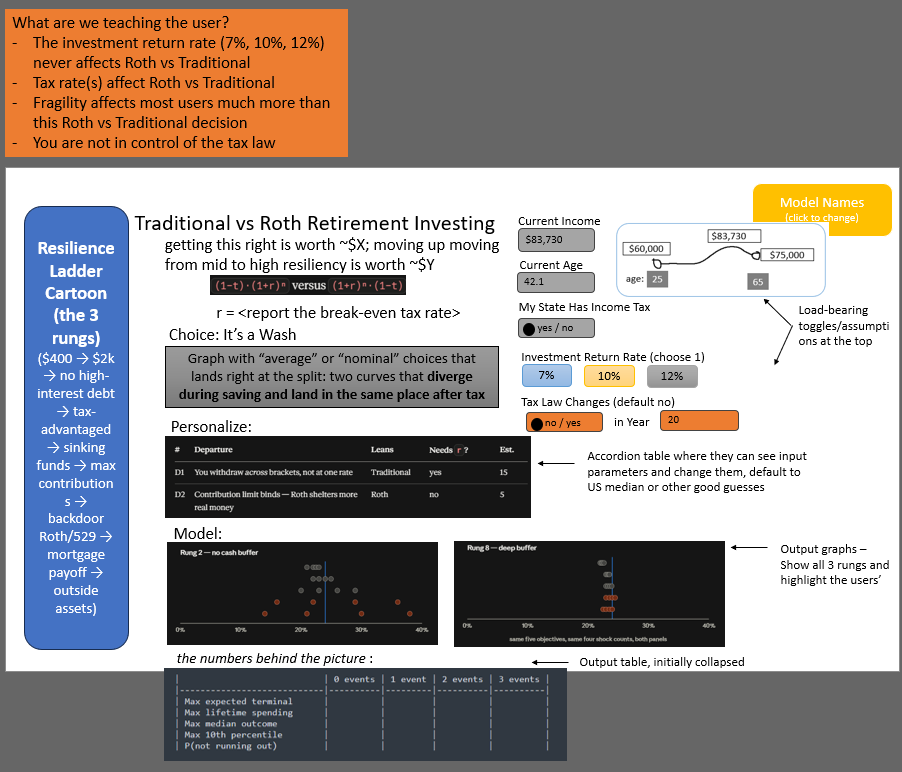
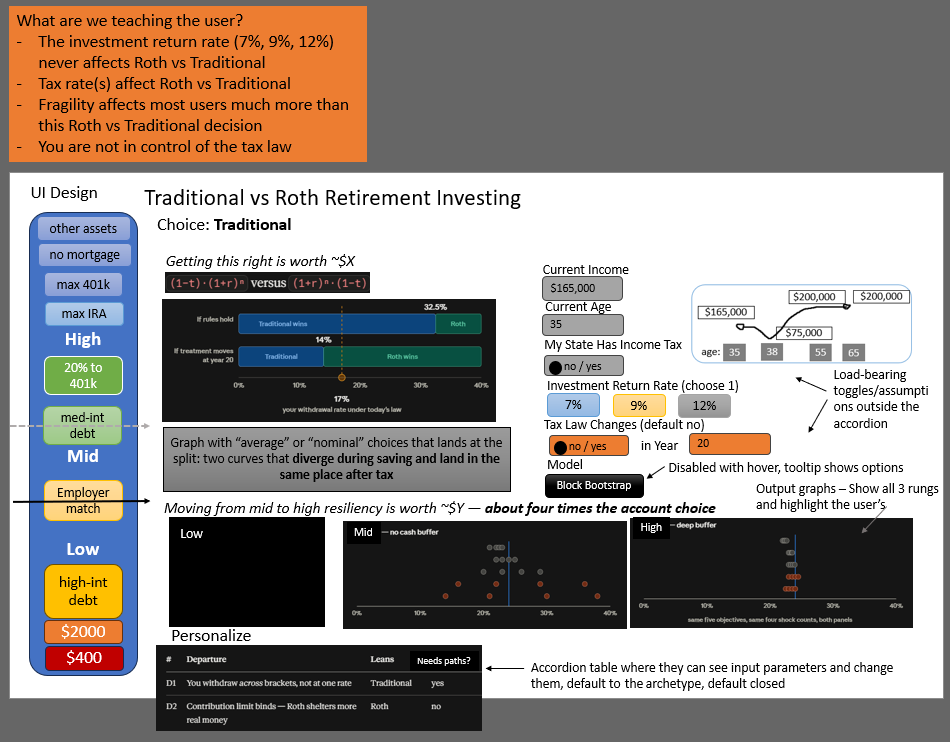
design review gate 1

diff --git a/docs/DECISIONS.md b/docs/DECISIONS.md
@@ -10,14 +10,27 @@ option tables now carry two marker sets: `← initial pick` for the choice made
 during synthesis, `← design-phase pick` for what survived design. Where a row
 carries both, the choice held.
 
-Two conflicts remain that markers can't express, plus two in `DESIGN.md`:
+`README.md` is a working surface, not a source. It carries notes taken while
+thinking and is reconciled against this file at each design gate — so between
+gates it may disagree, and this file wins by default. Disagreements found in the
+README are treated as unreconciled notes rather than conflicts, **except** where
+the README states a number or a claim the panel will read, in which case the
+disagreement is a defect and gets fixed in the same pass. Both files are stale
+until a gate closes; this one is stale by omission, the README by draft.
+
+Three conflicts remain that markers can't express, plus two in `DESIGN.md`:
 
 | Says | Superseded by |
 |---|---|
-| CONTEXT §B — PoC is "deliberately throwaway" | D-11. The PoC *is* the engine the app imports |
+| CONTEXT part B — PoC is "deliberately throwaway" | D-11. The PoC *is* the engine the app imports |
+| CONTEXT part B — "Cost in the budget" includes research and design | Section 8. Both are declared outside the implementation budget |
 | CONTEXT §G3 — model the employer match | D8 disposition. Grayed, `TODO` |
 | DESIGN.md — grid columns are a "shock count" | D-08. Columns are shock count; *timing* is correlated with drawdown |
 | DESIGN.md — rung slider, 8–10 stops, feeding shock severity | D-16. Three rungs, and the rung selects a *mechanism*, not a severity |
+| DESIGN.md — tail visual "Pick 3, with 2 as the visual under it" | Cut. The exchange-rate sentence survives as the $X/$Y sentence; the two-bar asymmetry chart is a Scope & Branches row |
+| DESIGN.md — "Recommended output stack ≈ 75 min" | Section 8. Predates the cube, the rung mechanisms, and the ladder graphic |
+
+Design deck — working surface, reconciled at gates. DECISIONS.md wins.
 
 ---
 
@@ -72,10 +85,10 @@ model, RMDs, Social Security taxation, real per-state tax data.
 | D-04 | **Return rate is a three-way choice: 7 / 10 / 12%, real.** Default 7% | These are the exact numbers people argue about. Clicking all three while the answer holds still *is* L1 |
 | D-05 | **Return path model: block bootstrap over a historical return series. Block length 5 years.** Shocks placed into each path's worst years by drawdown `argsort` | Bad years must arrive in *runs* or the forced-liquidation argument is mechanical only — you sell at the bottom and next year is fine. IID and lognormal both scatter them. Block length is stated, and its sensitivity at 3 and 10 goes in Scope & Branches: a measured fudge factor beats an unexamined distribution. `argsort` placement means no correlation coefficient to calibrate or defend |
 | D-06 | **`optimal` is a parameter, not a choice.** All five objectives ship as grid rows | Same inputs, swap the objective, watch the recommendation flip. This is the demo |
-| D-07 | **Common random numbers.** Draw the `(n_paths, n_years)` array once; reuse across every cell, both choices, every bisection step | The quantity of interest is a small difference between two large numbers. Pairing removes sampling noise from that difference, makes the cube reproducible from a seed, and makes 160 cells cheap |
+| D-07 | **Common random numbers.** Draw the `(n_paths, n_years)` array once; reuse across every cell, both choices, every bisection step | The quantity of interest is a small difference between two large numbers. Pairing removes sampling noise from that difference, makes the cube reproducible from a seed, and makes 60 cells cheap |
 | D-08 | **Shock columns are a count (0–3); shock *timing* is correlated with drawdown.** Correlated is the default; an uncorrelated toggle exists for contrast | Forced liquidation lands when prices are worst. The toggle makes the fat tail appear and disappear in one click |
 | D-09 | **Policy scenario is "nevermind," prospective.** After year N (default 20), withdrawals are ordinary income regardless of account type — applied to growth after year N, not retroactively to existing balance | Simpler than a haircut: no rate parameter. Prospective is what actually tends to happen when rules move |
-| D-10 | **"Nevermind" is labeled as what Roth is betting, not as a neutral scenario** | It is one-sided — Traditional already banked its deduction. Honest framing. README carries one line noting a bracket rise cuts the other way |
+| D-10 | **Both thresholds display, always. The headline holds two numbers: `t*` under current rules and `t*` with the "nevermind" policy applied.** Labeled: *Roth bets the treatment holds. Traditional bets the rates do. Neither is the neutral choice — pick which rule you'd rather be exposed to* | The toggle as originally specified showed only Roth's exposure, while the offsetting case — brackets rise, Roth wins — sat in a README branch nobody at a demo will read. That asymmetry is what makes a one-sided toggle read as a strawman. The correction costs nothing to model, because the bracket-rise case is *already on the axis*: a higher future rate is a position to the right of `t*`, and the user is being asked to locate themselves there regardless. Showing both thresholds applies the CONTEXT part C option-4 stance twice instead of once. Cost: one extra `breakeven()` call. Layout unchanged except the headline carries two numbers |
 
 ### Architecture
 
@@ -110,6 +123,54 @@ Rungs are **named in the UI, never numbered.** The ladder figure in the left rai
 keeps all ten stops and marks which three are modeled: the figure is the
 argument, the three are the model.
 
+### GAPS SURFACED IN DESIGN REVIEW, CLOSED HERE
+
+| D-17 | **Dollar fields are evaluated at `t* + δ`, δ = 10 percentage points**, not at the break-even. Emit `roth_dollars` / `trad_dollars` at δ ∈ {2, 10}; the app uses 10 and the README reports both. Null for non-crossing cells | At `t*` the two outcomes are equal by construction, so `$X` would be zero. δ is the assumed size of the miss, and it sets `$X` outright while leaving `$Y` nearly untouched — so it must be chosen *against* the L3 claim rather than for it. Ten points is about a bracket and a half, the generous case. The wash band was rejected as the anchor precisely because it minimizes `$X`. Sensitivity at 2 and 10 goes in Scope & Branches; δ is named in the app's sentence, not hidden |
+
+| D-23 | **The $X / $Y sentence reads objective 4 (max 10th percentile) at 1 shock.** Rung comes from the user's control; $Y compares that rung to the next one up, same objective and shock count. **The README reports the pair at all five objectives.** The sentence names its objective in-line | Zero shocks makes $Y identically zero — the rung selects a shock branch, and with no shock all three branches run the same code. Expected value is the wrong gauge for fragility: a halving and a doubling cancel in the mean, and ruin is absorbing, so the ensemble average is not what any one household lives. Objective 4 is where fragility is visible and it keeps both magnitudes in dollars, which is the only reason the sentence works at all. It is also the choice that flatters L3 most — it shrinks $X and grows $Y — so the full five-objective spread is published rather than the single quoted pair. Objectives 2 and 5 need the spending model and cannot serve here |
+
+| D-27 | **Everything is in real 2026 dollars. Brackets are treated as inflation-indexed**, so the 2026 table applies at every year of the run | Returns are declared real (D-04) while the bracket table is nominal 2026. Running both unstated models a world where brackets never index — bracket creep would push the future rate up on its own and `t*` would be an artifact of the mismatch. Real throughout is internally consistent and matches the law. **R5's return series must be real or deflated on load.** The 7/10/12 buttons are labeled as the figures people quote, since 12% real is not a claim |
+
+| D-19 | **Reference archetype:** age 35, retires 65, dies 100, filing single, no-income-tax state (D4 default), income $165,000 real, savings rate 20%, replacement rate 80%. Income shape has one start, one trough, one peak, one end | Filing single because the UI models one income curve and one age — an MFJ archetype is a household the controls cannot represent. $165k is what a Staff SWE recognizes; the panel will reset income to their own the way part E predicts they will reset the state toggle. Consequences: `t_now` = 24% with no bracket straddle, and savings capacity ($33,000) just clears the cost of maxing a Roth ($32,237), so D2 and T3 are live at the archetype rather than hypothetical |
+
+| D-20 | **Horizon runs to age 100; `n_years = 100 − current_age`.** Two phases: accumulate to 65, decumulate 65→100. All objectives evaluate at 100 | Planning past median longevity is the standard convention, because outliving the money is the failure that matters. Retirement at 65 was already implicit in the income shape's right endpoint. Splitting the phases is what puts `t*` where it belongs — in the withdrawal years. "Terminal wealth" therefore means bequest at 100, not balance at 65, so all five objectives share one horizon. Guard needed for `current_age >= 65` |
+
+| D-21 | **`tax.py` implements SINGLE only: 2026 bracket edges, seven rates, standard deduction $16,100.** MFJ and HoH are `TODO` stubs with a source comment | Source: Tax Foundation / IRS 2026 release. Deduction applies to withdrawals, so gross minus deduction gives taxable and the bracket table is read in taxable terms. HoH is stubbed rather than half-entered because the published HoH column has overlapping edges at the 24/32 boundary. Additional standard deduction for filers over 65 is a `TODO` — it lowers the effective retirement rate and therefore moves `t*` slightly toward Traditional. **R1 closes when the single column and the deduction are verified by hand against irs.gov, not against a secondary source** |
+
+| D-28 | **Spending stub: save 20% of income during accumulation, spend 80% of final working income in retirement.** Modeled contribution is `min(0.20 × income, deferral cap)`; the remainder is declared out of model and displayed grayed | Source: BLS household budget data. One number serves both phases — savings rate on the way up, replacement rate on the way down — which is why one stub unlocks objectives 2 and 5. 80% sits at the conservative end of the 70–80% planning band. The grayed excess ($8,500 at the archetype) shares a row with D3: both are money outside the 401k that the model does not follow. **This voids D-03's stated reason** — a savings model and a spending model now exist, so the income-shape-to-rung question needs a new justification or a flip |
+
+| D-04a | **Return buttons are 7 / 9 / 12%, all real.** Each is labeled with what it corresponds to nominally; 12% is labeled implausible on purpose. Default 7% | D-27 puts the model in real dollars, so nominal buttons would misread. But 7 and 10 collapse under conversion — 10% nominal *is* ~7% real — so a straight translation loses a button. Keeping 12% real preserves D-04's reason (these are the figures people argue about) and improves on it: the implausible button is the one a skeptic reaches for first, and watching `t*` hold still there is L1 at full force. Caption under the row: *this input drives the picture, not the answer* |
+
+| D-29 | **The grayed excess-savings row carries the solar-capex analog in its label, with no outbound link.** Suggested: *"excess savings — in the energy analog, this is the year you buy the panels."* The phrase links to the domain-analog table in the README | It is the one place in the app that addresses the panel rather than the user, so it should spend that attention on the analog rather than on an ask. A careers link is the wrong mapping — part A pairs solar capex with Roth tax paid up front, and a hiring page is neither capex nor a rate schedule. Linking inward routes a curious reader to the nine-pair table |
+
+| D-24 | **Departures do not perturb the deterministic headline. D1 is reclassified from a model change to a reference marker:** the app computes the effective rate today's brackets produce on the modeled withdrawal and draws it as a second line beside `t*`. Accordion-editable means the user overrides that computed number, not the bracket model | Under a flat future rate the after-tax Traditional trajectory is the Roth trajectory scaled by `(1−t_later)` — identical for any `r`, any income shape, any spending path. T2 therefore holds by construction and needs no default to switch off. What breaks the scalar multiple is a mechanism that hits the accounts asymmetrically: the early-withdrawal penalty, the cap (D2), the rule change (D7). D1 is not one of those. As a marker it costs one function already needed, keeps `t*` a single interpretable scalar, and supplies D-18's operand at no extra input — preserving the CONTEXT part C option-4 stance. At the archetype it yields `t*` = 24% against ~17% effective under today's law: Traditional by ~7 points, because you defer at marginal and withdraw across the whole structure from zero |
+
+| D-25 | **D-01 applies at `min(capacity, cap)` in PRE-TAX terms.** Base case: $24,500 to Traditional, $18,620 to Roth — the Roth deliberately under-fills. **D2 ON** fills the Roth to $24,500 after-tax ($32,237 pre-tax) and is the only place the cap effect enters. T3 tests D2 ON | The cap is denominated in nominal contribution dollars, which are pre-tax for Traditional and after-tax for Roth, so at the boundary the two choice sets differ and the convention has nothing to equalize. Reading D-01 as a comparison device rather than a behavior model resolves this: the base case isolates the *timing* effect, D2 adds the *capacity* effect back as a named step. Under-filling the Roth is artificial and is labeled so in the app. **Correction to D-19:** the archetype's $33,000 capacity is ABOVE the $24,500 cap, so this is the base case, not an edge case. Capacity covers the $32,237 cost of maxing the Roth with $763 spare, so T3 exercises something the reference user experiences |
+
+| D-30 | **State tax is two booleans sharing one rate: 8.5%, DC's marginal rate at the archetype income.** Top strip — *"State income tax — while working,"* default **yes**. Accordion D4 — *"You retire to a state that also taxes income,"* default **no**. Rate is added to the federal marginal rate; real per-state data stays `TODO` | Split because the earning state and the retirement state are different assumptions and the gap between them is the whole effect. Defaults are earn-taxed / retire-untaxed, which is the widest honest case and the demo: `t_now` = 32.5% against ~17% federal effective, Traditional by ~15.5 points. Turning the accordion half on narrows it back toward baseline — that is the correction most users should apply, and it must stay reachable, so **D4's row is exempt from the accordion read-only cut**. 8.5% rather than a round 10 because DC's top rate applies above ~$1M and the panel files DC returns: a rate rounded up flatters the Traditional case by 1.5 points in a number they can check. Simplification: state tax is treated as additive to the federal marginal rate, ignoring SALT deductibility — `TODO`, and it slightly overstates the combined rate |
+
+| D-22 | **Deterministic mode is `paths` of shape `(1, n_years)` filled with the constant real return.** Replaces D-13's `n_paths=1, sigma=0`. `make_paths(kind, ...)` builds either a constant array or a bootstrap array; the engine cannot tell which it received | The block bootstrap has no `sigma` — that parameter belonged to the parametric model D-05 rejected. Expressing the deterministic path as a shape rather than a setting keeps D-13's claim intact and makes it structural: one function, one code path, nothing to drift. Two consequences: at `n_paths=1` objectives 1, 3 and 4 collapse to the same value, so the headline is objective-independent by construction; and objective 5 degenerates to a step function that will not bisect — the deterministic path must reject it. **Validation gate:** the entire 0-shock slab of the cube (3 rungs × objectives 1–4) must equal `t_now` exactly, since the scalar multiple holds per path and therefore under any objective |
+
+| D-26 | **At year N, snapshot the Roth balance as a tax-free allowance in real dollars. It does not grow. Retirement withdrawals draw it down first; everything past it is ordinary income at `t_later`.** Traditional is unchanged. Policy is not a cube axis — the toggle moves the headline line, never the dots | D-09's "growth after year N, not retroactively to existing balance" is the harsher of two grandfathering readings, and it is the one written down: freezing the balance rather than the account. Because D-10 already commits to labeling this as Roth's bet rather than a neutral scenario, the sub-choices are modeled gently — allowance drawn first rather than pro-rated — so the effect shown is real rather than stacked. One scalar to carry, and it matches basis-recovery mechanics. Traditional needs no branch at all: its withdrawals were already ordinary income, and that absence in the code is the asymmetry. At the archetype, N=20 lands at age 55, grandfathering ≈ $763k against a $1.76M balance at 65 — about six of thirty-five retirement years |
+
+| D-31 | **Income suggests a rung; six checkboxes set it. Both render on the ladder — income as a faint marker, checkboxes as the solid one, and the actual rung is the checkbox marker** | Deriving the rung from income would reintroduce the exact error DESIGN.md's insight paragraph names: income is a fourth instrument ladder, and same income / different fragility is the whole point. Two markers make the disagreement legible — when income says High and the checkboxes say Low, the graphic has drawn the boat and the giant house without the app asserting anything. That is the project's central claim rendered as a UI state rather than a paragraph, for the cost of one extra marker. **This supersedes D-03's stated reason**, which was voided by D-28 when the savings and spending stubs landed; the conclusion (rung is its own control) stands on the stronger reason |
+
+| D-32 | **Six gates, from the r/personalfinance flowchart. First four default checked, last two unchecked.** Unchecking either of the first two drops to Low; all four of the first set gives Mid; both of the last two gives High | The flowchart is a behavioral checklist, not a macro claim — it stays out of contested territory in a hiring artifact. It covers only the ladder's lower half, so all-cleared lands at Mid rather than High, which is correct: the archetype at $165k should start at Mid. That is the branch D-16 says carries the argument, `$Y` is defined there, and the dots have not yet collapsed. Gates: $2,000 saved · high-interest debt cleared · employer match captured · medium-interest (~8%) debt cleared · mortgage paid off · assets outside the primary residence |
+
+| D-33 | **Canonical ladder is the 10-stop list from DESIGN.md's "Resilience ladder as a parameter" section.** Low = stops 1–2, Mid = 3–6, High = 7–10 | DESIGN.md gives the ladder twice — 9 stops in one section, 10 in the other — and README and the mockup each give a third variant. The 10-stop version is the superset (it adds "pay for those things" after sinking funds), so it is the one D-16's "all ten stops" refers to. The spans line up with the mechanisms: the first two rungs are cash positions, so a shock forces a sale; the middle four are debt and sinking-fund positions, so a shock pauses contributions; the top four hold assets outside the emergency path, so a shock is absorbed |
+
+| D-34 | **Dot encoding: row = shock count (0 at top, 3 at bottom). Color = objective family — gray for expected-value (1, 2), neutral for median (3), orange for tail (4, 5). No jitter** | The encoding renders DESIGN.md's stated prediction directly: gray dots barely move down the rows because expected value is blind to shocks — a halving and a doubling cancel in the mean — while orange dots fan out. So the panel carries L3 (collapse across rungs) and the expected-value-vs-tail divergence at the same time, and the second one is free. No jitter because rows already separate the dots; overlap within a row means the objectives agree, which is information rather than clutter |
+
+| D-18 | **The verdict compares `t*` against the today's-law effective rate marker from D-24.** Inside D-02's ±2-point band, "it's a wash"; outside, name the winner | D-02 defined a band with nothing to measure it against, and CONTEXT part C option 4 deliberately refuses to ask the user for a future-rate belief. The marker resolves this at no input cost: it is a computed fact — what today's brackets produce on the modeled withdrawal — not a prediction, so the threshold framing survives. At the archetype it yields 32.5% against ~17%, which is Traditional by ~15.5 points and well outside the band |
+
+| D-35 | **The verdict is suppressed when either of the first two gates is unchecked** ($2,000 saved, high-interest debt cleared) — the same condition as the Low rung under D-32, stated as the gate rather than the tier. Copy names the binding gate: *"You're carrying high-interest debt. Paying it off beats either account, at any tax rate."* **`t*`, both thresholds, and the $X/$Y sentence all stay visible** — only the verdict line is replaced | Naming the gate is more useful than announcing a tier, and the high-interest case is arithmetic rather than advice: no 401k election returns 20%+ guaranteed. Suppressing the verdict without hiding the numbers keeps the app from reading as a lockout. `$X`/`$Y` in particular must stay — at Low, `$Y` is large against a small `$X`, which is L3's demonstration, and hiding it would gut the lesson at the exact rung that proves it. The flowchart's 15%-savings-rate guidance stays out of the model and appears only as gate labels: a rung-dependent contribution rate would couple L2 and L3, which is what keeping them on separate controls exists to prevent |
+
+| D-36 | **`$Y` compares the user's rung to the next rung up, one step.** Undefined at High; the app says so rather than printing zero | README's "moving up two rungs" was stale. One step is the smaller and more defensible claim, and with three rungs a two-step comparison only exists for Low |
+
+| D-33 | **Canonical ladder is the ten-stop flowchart ladder, replacing DESIGN.md's list.** Bottom to top: $400 · $2,000 · high-interest debt · employer match · medium-interest (~8%) debt · 20% to 401k · max IRA · max 401k · no mortgage · other assets. **Low = 1–3, Mid = 4–6, High = 7–10.** All ten stops are clickable | The flowchart ladder maps to the shock mechanisms tighter than DESIGN.md's list did. Low is the no-cash-plus-balance-owed band, where a shock forces a sale, and it is exactly D-35's suppression gates. **Mid is the contributing band** — employer match through 20% — which is what makes D-16's "contributions pause" mechanism land on the right stops. High is money outside the emergency path. Note the flowchart's own ordering: employer match comes *before* clearing medium-interest debt, because the match is free money |
+
+| D-37 | **The rung is the highest CONTIGUOUS stop cleared. Non-contiguous checks render as a top-heavy shape, and the app names the gap:** *"You have assets above a gap — the flowchart would prioritize [lowest unchecked stop] first"* | Ten independent booleans make the graphic show ordering, not just position. Assets checked with nothing beneath them is misallocation — capital parked above a gap it should be filling — and the shape says so without a sentence. Contiguity keeps the rung honest: a lone top stop still reads Low, which is correct, because the shock mechanism depends on what is beneath you. Copy points at the flowchart rather than issuing advice, because the top stops here are mostly illiquid or penalized: telling a 401k-heavy user to sell is the forced-liquidation branch this model treats as the bad outcome. Cost is a contiguity check and one conditional line |
+
 ---
 
 ## 4. Departure dispositions
@@ -122,7 +183,7 @@ what was scoped out and stay visible as evidence of completeness.
 | D1 | You withdraw *across* brackets, not at one rate | Traditional | **Real.** Accordion, editable |
 | D2 | Contribution limit binds — Roth shelters more real money | Roth | **Real.** Hard-coded 2026 values, `TODO` source |
 | D3 | Below the limit, the tax saving sits in a taxable side account | Roth | **Grayed.** `TODO`. See D-01 — the convention absorbs the trap without the model |
-| D4 | You retire in a different state than you earned in | either | **Boolean tax / no-tax toggle**, top area. `TODO` real per-state data |
+| D4 | You retire to a state that also taxes income | Roth | **Boolean, 8.5%.** Paired with the top-strip "while working" toggle, per D-30. Stays editable when the accordion goes read-only. `TODO` real per-state data |
 | D5 | Shock forces withdrawal — Traditional penalty vs. Roth basis | Roth | **Real, stochastic.** Becomes the correlated / uncorrelated toggle |
 | D6 | Objective isn't expected value | either | **Real, stochastic.** Always on. Grid rows |
 | D7 | The rule moves | either direction | **Real.** Top area, per D-09 |
@@ -175,21 +236,36 @@ breakeven(profile, objective, shocks, policy, paths) -> Result
 
 ## 6. Tests
 
-Four. Each asserts a claim the README makes, which is the point of having them.
+Eight. Each asserts a claim made elsewhere in the docs, which is the point of
+having them.
 
 | # | Test | Claim it defends |
 |---|---|---|
 | T1 | `t_now == t_later` → the two outcomes are equal under D-01 | The identity is real |
-| T2 | Break-even is unchanged across `r ∈ {4, 7, 10, 12}%` | **L1** |
-| T3 | At the deferral cap, Roth shelters strictly more | D2 / the G4 trap |
-| T4 | A no-crossing cell returns a sentinel and does not raise | The demo doesn't die on the interesting cases |
+| T2 | `t*` is unchanged across `r ∈ {4, 7, 10, 12}%`, **and** the after-tax Traditional path equals the Roth path scaled by `(1−t_later)` at every year | **L1.** The scalar-multiple assertion is why it holds for any `r`, not only the four sampled |
+| T3 | With D2 ON, Roth shelters strictly more real dollars than Traditional, and the cell returns `always_roth` | D2, the G4 trap, and D-25's scoping of D-01 |
+| T4 | A no-crossing cell returns its sentinel and does not raise | R3. T3's cell is one, so this is exercised rather than hypothetical |
+| T5 | In the base case, the today's-law effective rate is strictly below `t*` | The headline sentence — you defer at your marginal rate and withdraw across the whole bracket structure from zero |
+| T6 | Low rung: a shock realizes a sale, and Traditional takes the early-withdrawal penalty while Roth basis comes out free | D-16 low branch, D5 |
+| T7 | Mid rung: a shock skips the contribution year and the balance is never sold | D-16 mid branch — the shares not bought |
+| T8 | High rung: a shock leaves the portfolio untouched | D-16 high branch, the control case |
+
+T6–T8 assert the *mechanism*, not the magnitude. Three rungs are three code
+branches, so three tests — a severity dial would have needed one.
 
 ---
 
 ## 7. App layout
 
-Top strip, left to right: current income · income shape · state tax toggle ·
-**return rate buttons** · "nevermind" toggle + year.
+![App layout](ui-design.PNG)
+*Mockup, post-design-gate. Superseded: ladder shows 8 rungs (D-16: three),
+model box is now disabled per section 7, notation `r` → `t*` (D-24).*
+
+Top strip, left to right: current income · income shape · **state income tax
+(while working)** · return rate buttons · "nevermind" toggle + year.
+
+Caption under the state toggle: *default assumes you earn in a taxing state and
+retire in one that doesn't. Both are toggles.*
 
 The return-rate buttons sit beside the tax controls deliberately (L1 × L2
 contrast). Caption under them: *this input drives the picture, not the answer.*
@@ -197,18 +273,33 @@ contrast). Caption under them: *this input drives the picture, not the answer.*
 | Region | Contents |
 |---|---|
 | Left rail | Resilience ladder figure, all ten stops, with the three modeled rungs marked + a three-position control: low / mid / high |
-| Headline | Break-even rate `t*` + verdict. **At the low rung the verdict is replaced by:** *this election is not your binding constraint yet* |
+| Headline | **Two break-even rates side by side: rules hold / treatment moves at year N.** Verdict beneath, measured against the today's-law effective marker (D-24). **At the low rung the verdict is replaced by:** *this election is not your binding constraint yet* |
 | Under headline | The $X / $Y sentence |
 | Under that | Balance graph — two curves diverging during saving, landing together after tax |
 | Personalize | Accordion, all eight departures, grayed where scoped out |
 | Model | Three dot-plot panels in a row — low, mid, high. The user's rung is highlighted, the other two dimmed but **always visible**: the collapse is the lesson, and a trend needs three points. Each panel is a cube slice |
 | Numbers behind the picture | The objective × events grid, same data as the dot plot |
 
-Historical line beside the "nevermind" toggle: *Poland 2013, Ireland 2011, US
-SECURE Act 2019.*
+Beside the "nevermind" toggle:
+
+**You can still contribute — it just stops being worth it.**
+
+*Direct taxation of Roth withdrawals is the least likely form this takes. What
+has repeatedly happened instead is that tax-free money stops being invisible —
+counted toward a Medicare premium, the taxable share of Social Security, or an
+ACA subsidy. The money stays untaxed and costs you anyway, one layer over.*
+
+Poland 2013 · Ireland 2011 · US SECURE Act 2019 — the rule moved under people
+who had already committed.
 
 **Notation:** `t*` is the break-even future marginal rate. `r` is the market
 return. Do not reuse `r` for both.
+
+Top-right of the strip: a DISABLED control labeled **Model (block bootstrap)**.
+Tooltip lists all nine return models from CONTEXT part D and marks the two that
+are implemented — #2 fixed real rate (app headline), #6 block bootstrap (cube).
+Disabled rather than absent: the option space was mapped, two were built, and
+the control says so without implying the other seven exist.
 
 ---
 
@@ -224,6 +315,7 @@ outside it and reported separately. Actuals go in the README.
 | Three rung mechanisms (D-16) | 15 |
 | Tests | 10 |
 | Streamlit app | 30 |
+| Ladder graphic | 20 |
 | "Nevermind" toggle | 10 |
 | Deploy | 15 |
 | | **130 — over by 10, slack is gone** |
@@ -233,9 +325,18 @@ Sourcing the return series is *not* in here — it belongs to the research phase
 which is declared outside the 120. That accounting is legitimate but it has a
 condition: the data must exist before the clock starts (R5).
 
-Cuts, in order, recovering roughly 10. First: the state toggle. Second: the
-accordion goes read-only — the eight departures still display, they just stop
-being editable.
+Cuts, in order, recovering roughly 26:
+
+1. The "numbers behind the picture" grid — section 7 already calls it the same
+   data as the dot plot (~8)
+2. Accordion read-only — **except D4's row**, which stays editable per D-30 (~8)
+3. Ladder color bands → single neutral rail, both markers kept (~5)
+4. Income's suggested marker → checkbox marker only (~5)
+
+Cut 4 costs the boat, so it is last. **Do not cut the state toggle** — CONTEXT
+part E is right that every panelist sets it to their own state first.
+**Do not cut to two rungs.** It saves 5 minutes and costs L3, which needs three
+points to read as a trend.
 
 **Do not cut to two rungs.** It saves 5 minutes and costs L3, which needs three
 points to read as a trend.

diff --git a/README.md b/README.md
@@ -46,7 +46,7 @@ Four lessons follow from that. Every control on the page delivers one.
 | The return rate never affects the choice | 7 / 10 / 12% buttons |
 | Tax rates do affect the choice | Income shape, state toggle, bracket accordion |
 | Fragility matters more than the choice, for most people | Resilience-rung slider driving the scatter plot |
-| You are not in control of the tax law | The "nevermind" toggle |
+| You are not in control of the tax law | Two thresholds side by side, plus the "nevermind" toggle |
 
 ### The investment return rate never affects the choice
 
@@ -72,9 +72,23 @@ One sentence puts both effects in the same unit, which is the only place on the 
 
 ### You are not in control of the tax law
 
-Roth is a bet that a rule holds for thirty years. A toggle takes the bet away. After year N, withdrawals become ordinary income regardless of account type, the threshold moves, and the app names what happened rather than presenting it as a neutral scenario. Traditional already banked its deduction; Roth is the side with something to lose, and that asymmetry is the point.
+Roth is a bet that a rule holds for thirty years. Traditional is a bet that
+rates don't rise. Neither is the neutral position, and the app reports both
+thresholds side by side rather than making the user click to see the second one.
 
-Next to the toggle: Poland 2013, Ireland 2011, US SECURE Act 2019. Rules have moved under people who already committed.
+The bracket-rise case needs no model. It is already the axis — a higher future
+rate is a position to the right of the break-even, which is what the user is
+locating themselves against anyway. Only the treatment-moves case needs a
+second number, and it is one more call to the same function.
+
+After year N the Roth balance is frozen as a tax-free allowance and everything
+past it is ordinary income. Traditional needs no branch at all: its withdrawals
+were already ordinary income. That absence in the code is the asymmetry.
+
+Next to the toggle: Poland 2013, Ireland 2011, US SECURE Act 2019. The likeliest
+version of this is not a tax on Roth withdrawals — it is tax-free money ceasing
+to be invisible, counted toward a Medicare premium or the taxable share of
+Social Security. Untaxed, and expensive anyway.
 
 # MVP Architechture
 
@@ -155,17 +169,25 @@ Four, each asserting a claim made elsewhere in this README.
 
 - The bracket-rise case cuts the opposite way from "nevermind"
 - D-15 — the dots come from the reference archetype while the line is personalized
+- Some people choose Roth knowing the expected value is worse, because they'd rather not owe anything later. That preference is real and this model does not contain it — none of the five objectives can express "I want it settled."
 
-
+| Cut | Why | What it would take |
+|---|---|---|
+| **Certainty preference** — choosing Roth knowing the expected value is worse, because you'd rather not hold an open position | All five objectives are about wealth outcomes. None can express *I want it settled*. This is a real preference and the model does not contain it | A utility formulation over outcome *variance* rather than level, or an explicit premium the user names. Neither fits the threshold framing, which is why it is a branch rather than a sixth objective |
+| **Bracket rise as a modeled scenario** | Already on the axis. A higher future rate is a position to the right of `t*` | Nothing. Naming it is the work, and the two-threshold headline does that |
+| Two-bar asymmetry chart (p90 gain vs p10 loss, both against median) | Teaches a real lesson — outcomes are left-skewed, the bad case is bigger than the good one — but not L3. L3 is *fragility beats the account choice*, carried by the dot collapse and the $X/$Y sentence. Adjacent, not the same | A `p90_dollars` field in the cube and one chart. ~10 minutes. The semi-variance and ergodicity notes in DESIGN.md are the argument it would draw |
 # AI Disclosure
 
 1. research
  - (kept private)
 
 2. design
- - asdf
+ - (kept private)
 
-3. code execution -- with Claude Opus 5, Max Thinking
+3. sprint planning
+ - 
+
+4. code execution -- with Claude Opus 5, Max Thinking
  - asdf
 
 

diff --git a/docs/DESIGN.md b/docs/DESIGN.md
@@ -105,10 +105,16 @@ your binding constraint yet.**
 | Shocks drawn independently of returns | Mild, roughly symmetric — wrong |
 | Shocks correlated with drawdowns | Non-linear, fat — because forced liquidation happens exactly when prices are worst |
 
-This is the margin call. Not levered on paper, but: a 40-year
-obligation to eat, no free borrowing against future wages, and the
-recall timing is set by the same process that sets asset prices.
-ONE correlation coefficient carries the whole argument.
+This is the margin call. Not levered on paper, but: a 40-year obligation to eat,
+no free borrowing against future wages, and the recall timing is set by the same
+process that sets asset prices.
+
+> **Superseded by D-08.** This section originally read "ONE correlation
+> coefficient carries the whole argument." There is no coefficient. Shocks are
+> placed into each path's worst years by drawdown `argsort` — the placement *is*
+> the correlation, so there is nothing to calibrate and nothing to defend. An
+> uncorrelated toggle scatters them randomly for contrast, which makes the tail
+> appear and disappear in one click.
 
 Energy analog: a financed solar customer who loses income in a
 downturn must default or sell at the moment resale value is lowest.
@@ -163,6 +169,10 @@ Details worth having in the README:
 ---
 
 ## Recommended output stack
+
+> **Superseded by DECISIONS section 8.** This ≈75-minute stack predates the cube
+> (D-14), the three rung mechanisms (D-16), and the ladder graphic (D-31–D-33).
+> The layer breakdown is still the right decomposition; the numbers are stale.
 
 | Layer | Artifact | Budget |
 |---|---|---|
